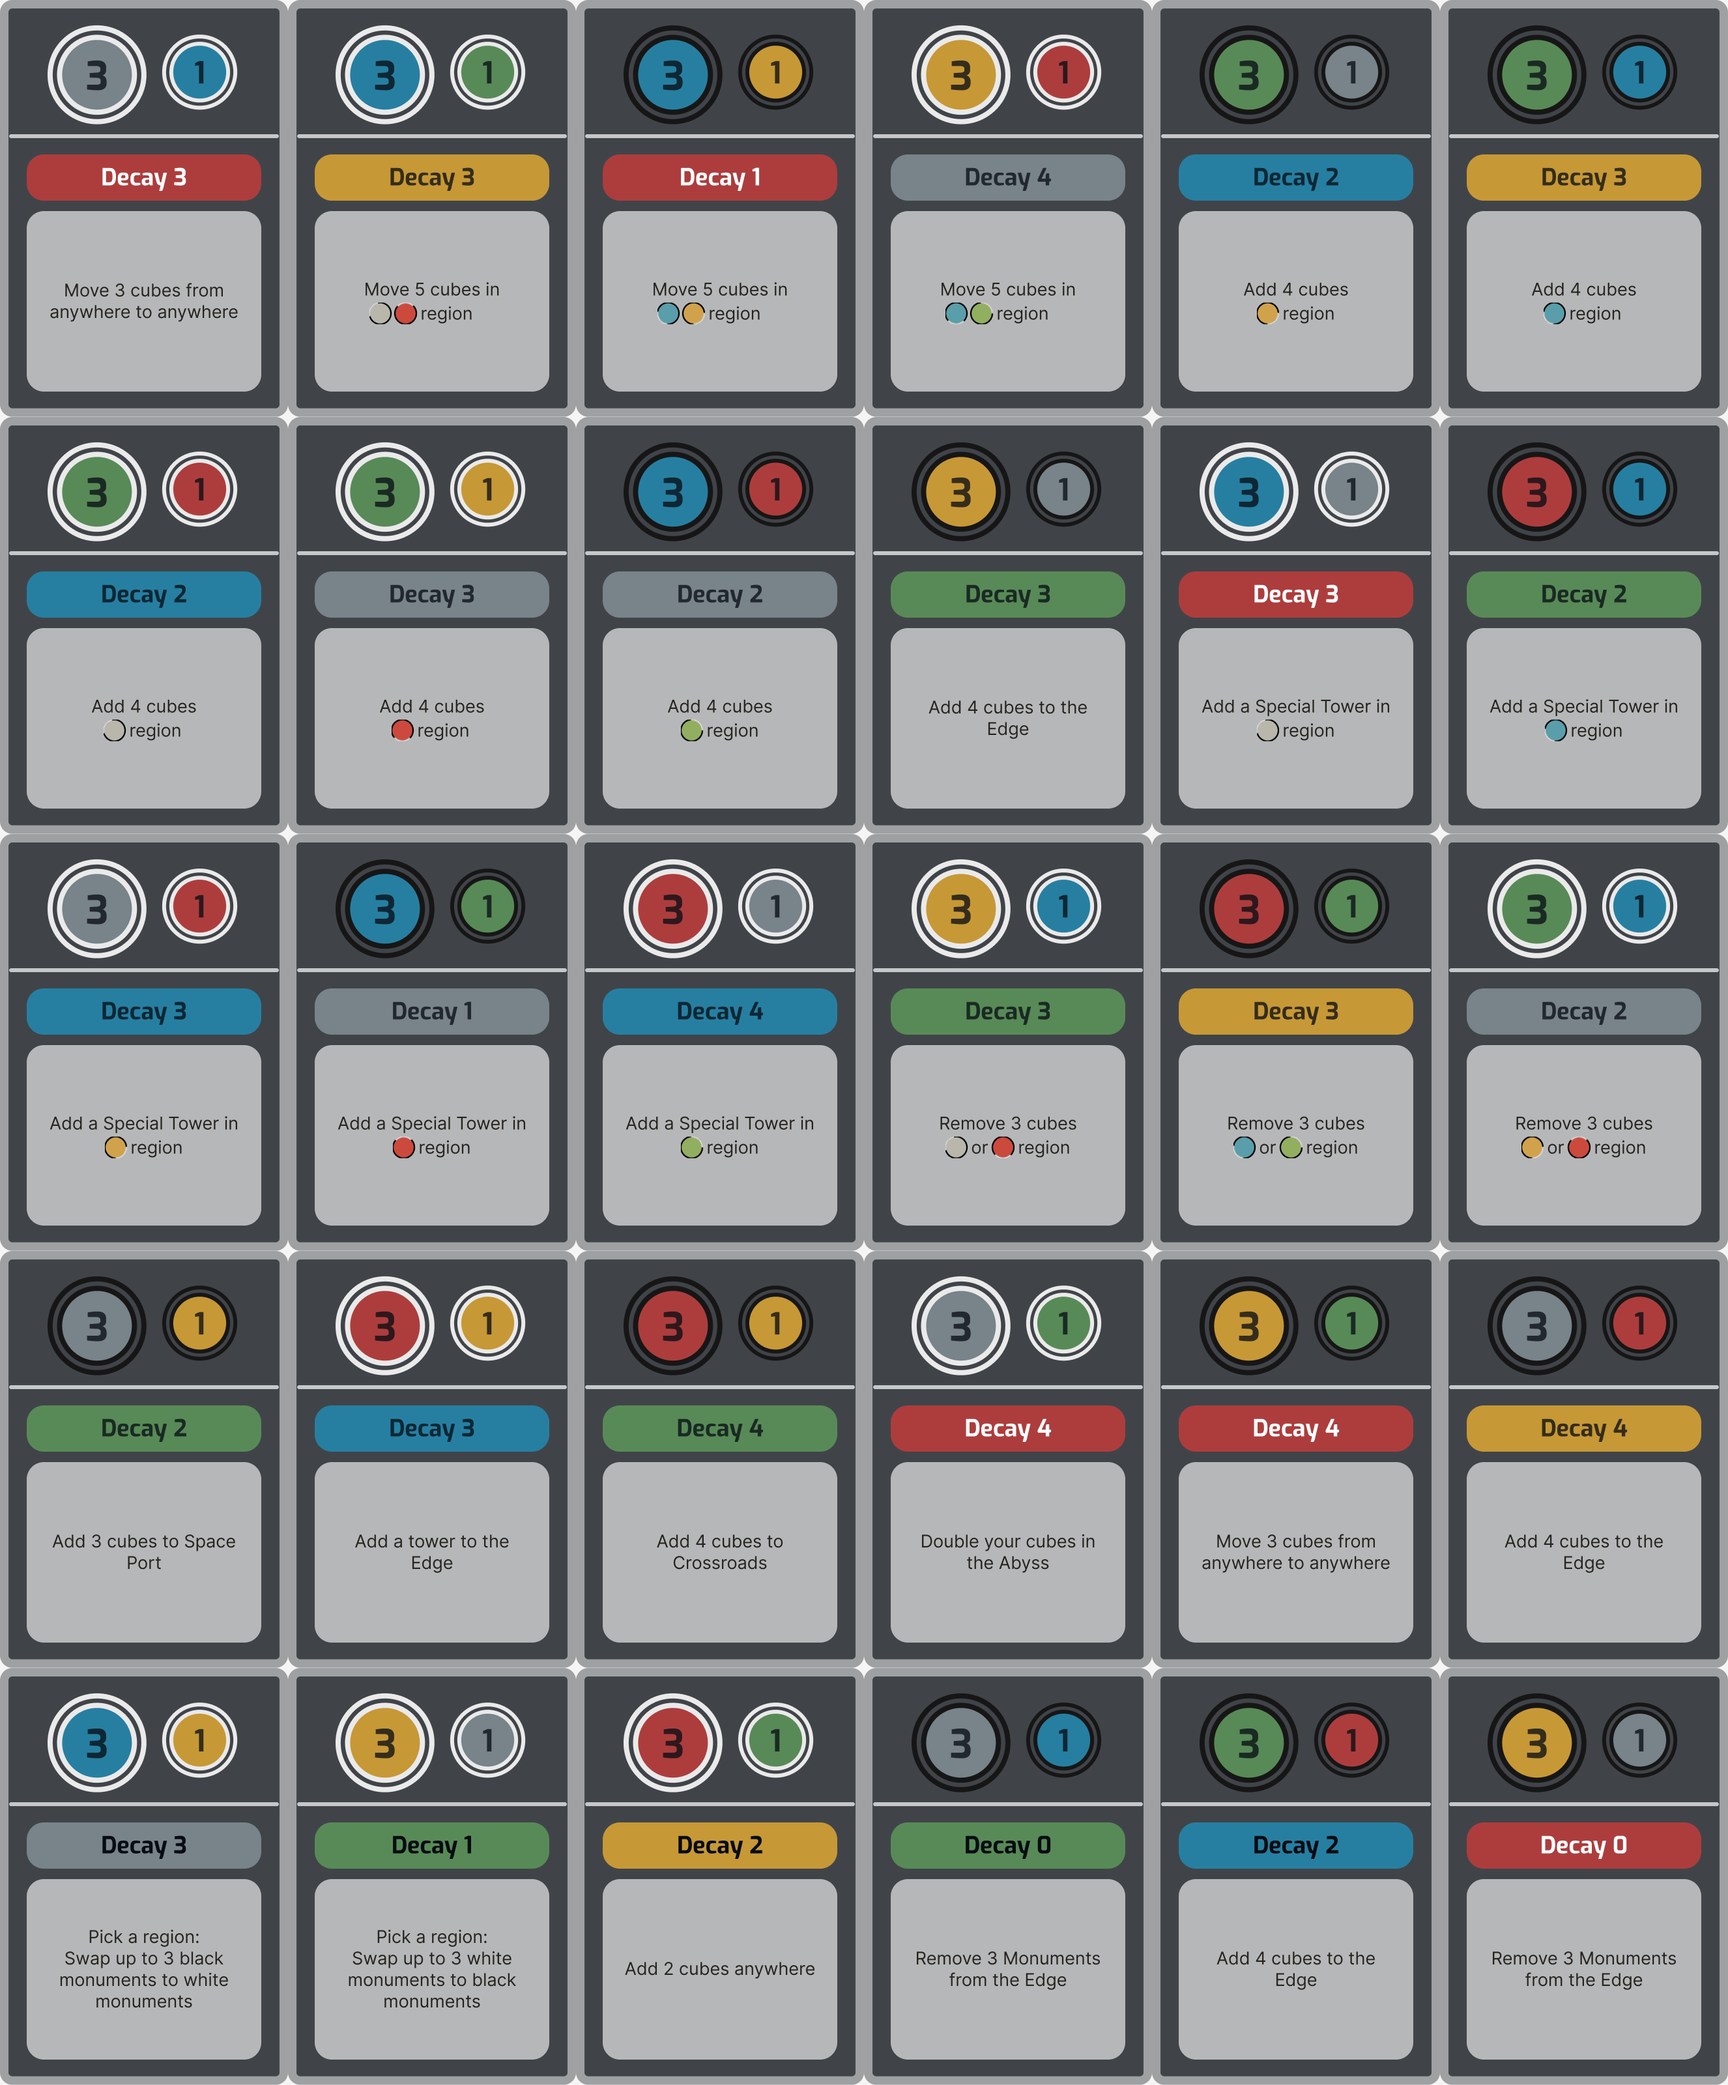
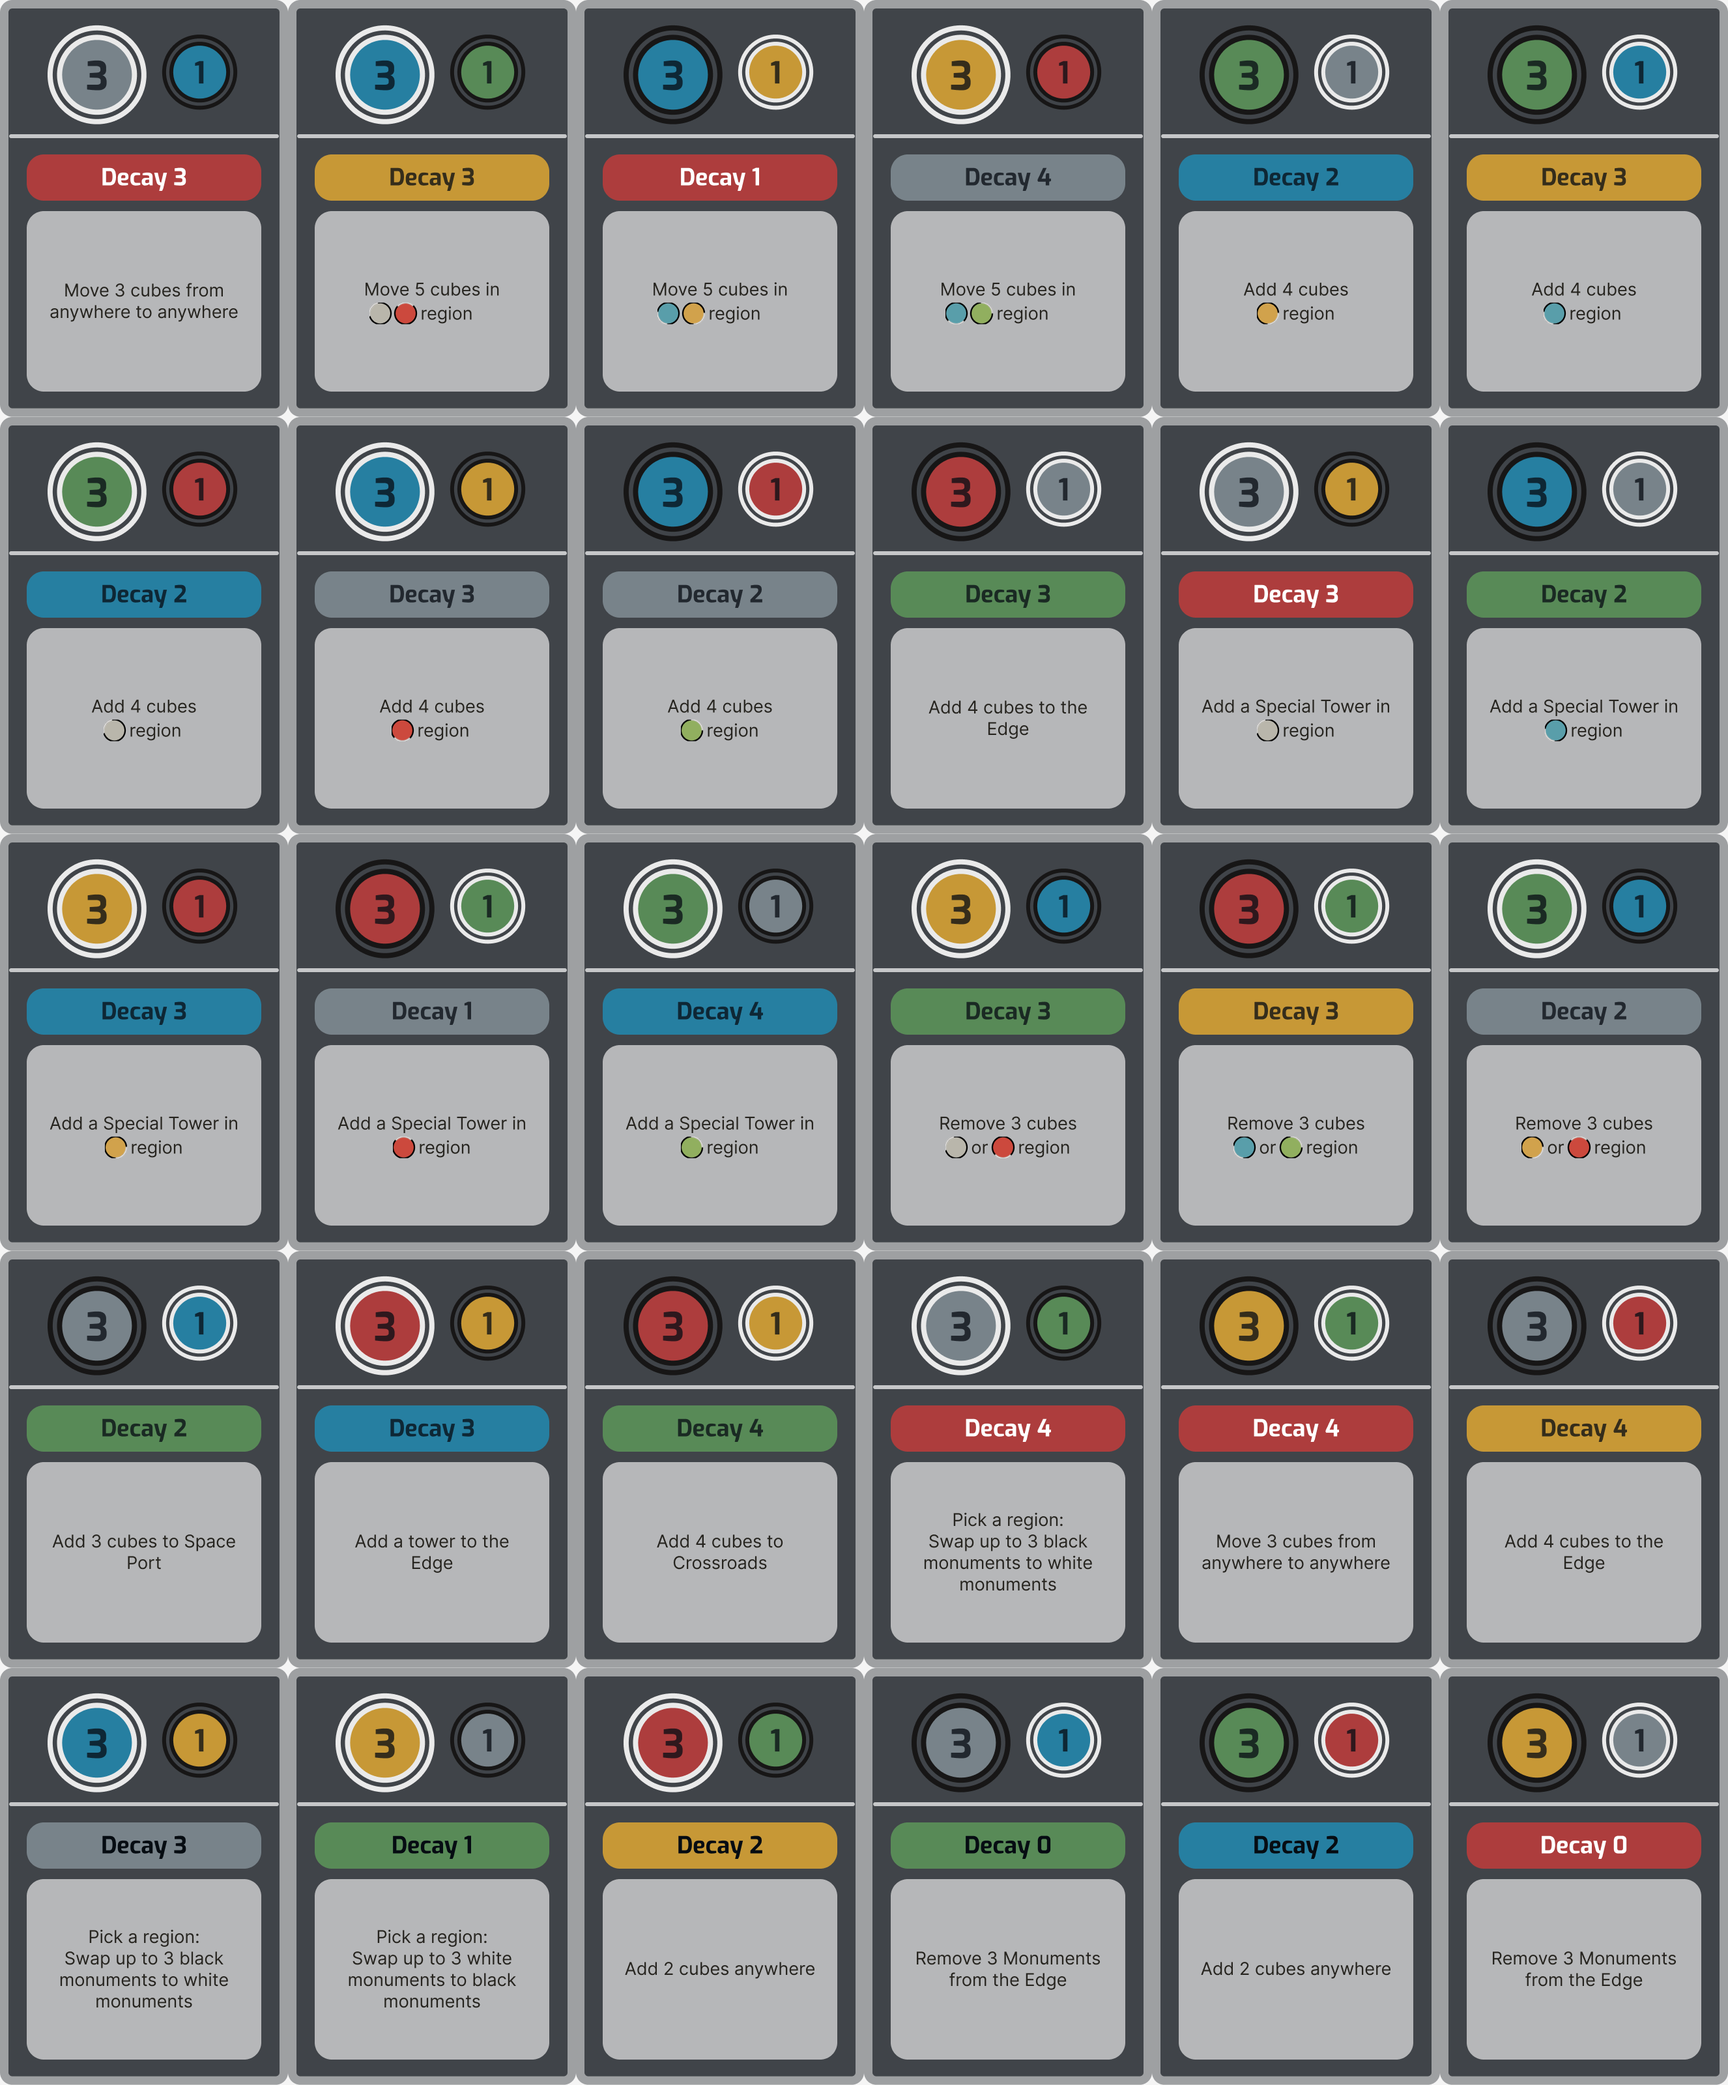
Publish updated board and card decks

diff --git a/docs/catalog.js b/docs/catalog.js
@@ -1,1 +1,1 @@
-window.FRONTIER_CATALOG = {"source": "Figma Page 5 Game components slice 400:5081", "boards": [{"title": "Main board", "figmaId": "400:5197", "path": "assets/boards/board-main-e46ceed54f.png", "width": 4096, "height": 2960, "revision": "788f060683"}], "cards": [{"title": "Action Guide", "figmaId": "400:3386", "path": "assets/cards/card-action-guide-6323e6fee4.png", "width": 506, "height": 729, "revision": "32b6b7b4d4"}, {"title": "Region Bonus Guide", "figmaId": "400:3436", "path": "assets/cards/card-region-bonus-guide-800eb32bd9.png", "width": 759, "height": 1098, "revision": "9f711bb71c"}], "references": [], "decks": [{"title": "Monuments", "figmaId": "400:4331", "count": 30, "columns": 6, "rows": 5, "cardWidth": 442, "cardHeight": 640, "face": {"path": "assets/decks/monuments-faces-d44fdccb0e.png", "width": 2652, "height": 3200, "revision": "e7878f313d"}, "back": {"path": "assets/decks/monuments-back-a65fba90e2.png", "width": 442, "height": 640, "revision": "abfd3f1891"}}, {"title": "Objectives", "figmaId": "400:3464", "count": 18, "columns": 6, "rows": 3, "cardWidth": 388, "cardHeight": 519, "face": {"path": "assets/decks/objectives-faces-4d91a50427.png", "width": 2328, "height": 1557, "revision": "96b64c3031"}, "back": {"path": "assets/decks/objectives-back-c08c78cc67.png", "width": 388, "height": 519, "revision": "cc7db17312"}}, {"title": "Specials", "figmaId": "400:4909", "count": 18, "columns": 6, "rows": 3, "cardWidth": 443, "cardHeight": 704, "face": {"path": "assets/decks/specials-faces-adc1172863.png", "width": 2658, "height": 2112, "revision": "312f1a4738"}, "back": {"path": "assets/decks/specials-back-0b946676e3.png", "width": 443, "height": 704, "revision": "a348395311"}}], "tokens": [{"title": "Build 4", "figmaId": "400:3302", "path": "assets/tokens/action-tile-1-fb100c9aa5.png", "width": 426, "height": 426, "revision": "989ae47648"}, {"title": "Region Bonus", "figmaId": "400:3383", "path": "assets/tokens/action-tile-2-7107aa55c8.png", "width": 426, "height": 426, "revision": "649b646ee8"}, {"title": "Build 3 — Blue", "figmaId": "400:3254", "path": "assets/tokens/action-tile-3.png", "width": 427, "height": 427, "revision": "c6c06dbd7d"}, {"title": "Action Upgrade +1", "figmaId": "400:3374", "path": "assets/tokens/action-tile-5-39a0ec00fc.png", "width": 426, "height": 426, "revision": "35563c5885"}, {"title": "Action Upgrade +2", "figmaId": "400:3377", "path": "assets/tokens/action-tile-6-813e8438d5.png", "width": 426, "height": 426, "revision": "d2a8f29a2f"}, {"title": "Build 3", "figmaId": "400:3232", "path": "assets/tokens/action-tile-7-7d3d7a7703.png", "width": 426, "height": 426, "revision": "d137d4bdfe"}, {"title": "Action Upgrade +3", "figmaId": "400:3380", "path": "assets/tokens/action-tile-8.png", "width": 426, "height": 426, "revision": "e5071bf25c"}, {"title": "Move — Blue Yellow Gray", "figmaId": "400:3276", "path": "assets/tokens/action-tile-9.png", "width": 427, "height": 427, "revision": "3d2c6d9614"}, {"title": "Build 3 — Gray", "figmaId": "526:147", "path": "assets/tokens/action-tile-11.png", "width": 427, "height": 427, "revision": "2529bdb0a3"}, {"title": "Build 3 — Red", "figmaId": "526:169", "path": "assets/tokens/action-tile-12.png", "width": 427, "height": 427, "revision": "311d42f308"}, {"title": "Move — Blue Yellow", "figmaId": "526:191", "path": "assets/tokens/action-tile-13.png", "width": 427, "height": 427, "revision": "1b44f97706"}, {"title": "Move — Yellow Red", "figmaId": "526:217", "path": "assets/tokens/action-tile-14.png", "width": 427, "height": 427, "revision": "d6157b7006"}]};
+window.FRONTIER_CATALOG = {"source": "Figma Page 5 Game components slice 400:5081", "boards": [{"title": "Main board", "figmaId": "400:5197", "path": "assets/boards/board-main-e46ceed54f.png", "width": 4096, "height": 2960, "revision": "45021ff334"}], "cards": [{"title": "Action Guide", "figmaId": "400:3386", "path": "assets/cards/card-action-guide-6323e6fee4.png", "width": 506, "height": 729, "revision": "32b6b7b4d4"}, {"title": "Region Bonus Guide", "figmaId": "400:3436", "path": "assets/cards/card-region-bonus-guide-800eb32bd9.png", "width": 759, "height": 1098, "revision": "9f711bb71c"}], "references": [], "decks": [{"title": "Monuments", "figmaId": "400:4331", "count": 30, "columns": 6, "rows": 5, "cardWidth": 442, "cardHeight": 640, "face": {"path": "assets/decks/monuments-faces-d44fdccb0e.png", "width": 2652, "height": 3200, "revision": "190d2ee0f9"}, "back": {"path": "assets/decks/monuments-back-a65fba90e2.png", "width": 442, "height": 640, "revision": "abfd3f1891"}}, {"title": "Objectives", "figmaId": "400:3464", "count": 18, "columns": 6, "rows": 3, "cardWidth": 388, "cardHeight": 519, "face": {"path": "assets/decks/objectives-faces-4d91a50427.png", "width": 2328, "height": 1557, "revision": "32e56861a8"}, "back": {"path": "assets/decks/objectives-back-c08c78cc67.png", "width": 388, "height": 519, "revision": "cc7db17312"}}, {"title": "Specials", "figmaId": "400:4909", "count": 19, "columns": 5, "rows": 4, "cardWidth": 443, "cardHeight": 704, "face": {"path": "assets/decks/specials-faces-adc1172863.png", "width": 2215, "height": 2816, "revision": "25ad4c82e8"}, "back": {"path": "assets/decks/specials-back-0b946676e3.png", "width": 443, "height": 704, "revision": "a348395311"}}], "tokens": [{"title": "Build 4", "figmaId": "400:3302", "path": "assets/tokens/action-tile-1-fb100c9aa5.png", "width": 426, "height": 426, "revision": "989ae47648"}, {"title": "Region Bonus", "figmaId": "400:3383", "path": "assets/tokens/action-tile-2-7107aa55c8.png", "width": 426, "height": 426, "revision": "649b646ee8"}, {"title": "Build 3 — Blue", "figmaId": "400:3254", "path": "assets/tokens/action-tile-3.png", "width": 427, "height": 427, "revision": "c6c06dbd7d"}, {"title": "Action Upgrade +1", "figmaId": "400:3374", "path": "assets/tokens/action-tile-5-39a0ec00fc.png", "width": 426, "height": 426, "revision": "35563c5885"}, {"title": "Action Upgrade +2", "figmaId": "400:3377", "path": "assets/tokens/action-tile-6-813e8438d5.png", "width": 426, "height": 426, "revision": "d2a8f29a2f"}, {"title": "Build 3", "figmaId": "400:3232", "path": "assets/tokens/action-tile-7-7d3d7a7703.png", "width": 426, "height": 426, "revision": "d137d4bdfe"}, {"title": "Action Upgrade +3", "figmaId": "400:3380", "path": "assets/tokens/action-tile-8.png", "width": 426, "height": 426, "revision": "e5071bf25c"}, {"title": "Move — Blue Yellow Gray", "figmaId": "400:3276", "path": "assets/tokens/action-tile-9.png", "width": 427, "height": 427, "revision": "3d2c6d9614"}, {"title": "Build 3 — Gray", "figmaId": "526:147", "path": "assets/tokens/action-tile-11.png", "width": 427, "height": 427, "revision": "2529bdb0a3"}, {"title": "Build 3 — Red", "figmaId": "526:169", "path": "assets/tokens/action-tile-12.png", "width": 427, "height": 427, "revision": "311d42f308"}, {"title": "Move — Blue Yellow", "figmaId": "526:191", "path": "assets/tokens/action-tile-13.png", "width": 427, "height": 427, "revision": "1b44f97706"}, {"title": "Move — Yellow Red", "figmaId": "526:217", "path": "assets/tokens/action-tile-14.png", "width": 427, "height": 427, "revision": "d6157b7006"}]};

diff --git a/docs/index.html b/docs/index.html
@@ -6,7 +6,7 @@
   <meta name="theme-color" content="#12171c">
   <title>Frontier · Tabletop Simulator assets</title>
   <link rel="stylesheet" href="styles.css?v=3">
-  <script defer src="catalog.js?v=05f8ce5b13"></script>
+  <script defer src="catalog.js?v=21f1e39784"></script>
   <script defer src="app.js?v=7"></script>
 </head>
 <body>

diff --git a/scripts/build_assets.py b/scripts/build_assets.py
@@ -186,8 +186,8 @@ def main() -> None:
          (442, 640), 6, 5, "back-monument", 0),
         ("objectives", "objectives", "Objectives", "400:3464", 18, 6, (196, 140), (420, 551),
          (388, 519), 6, 3, "back-objective", 0),
-        ("specials", "specials", "Specials", "400:4909", 18, 4, (0, 0), (492, 734),
-         (443, 704), 6, 3, "back-special", 0),
+        ("specials", "specials", "Specials", "400:4909", 19, 4, (0, 0), (492, 734),
+         (443, 704), 5, 4, "back-special", 0),
     ]
     for (slug, asset_slug, title, figma_id, count, source_columns, origin, stride,
          card_size, columns, rows, back_slug, start) in deck_specs:

diff --git a/README.md b/README.md
@@ -8,9 +8,9 @@ Current export:
 | --- | ---: | ---: | ---: | --- |
 | Monuments | 30 | 6 | 5 | Monument card back |
 | Objectives | 18 | 6 | 3 | Objective card back |
-| Specials | 18 | 6 | 3 | Special Card back |
+| Specials | 19 | 5 | 4 | Special Card back |
 
-There is one main board, two standalone guide cards, and twelve action tiles. Each deck sheet has no spacing between card bounds. Set **Back is Hidden** on when importing a deck into TTS.
+There is one main board, two standalone guide cards, and twelve action tiles. Each deck sheet has no spacing between card bounds. The 19-card Special sheet has one unused slot. Set **Back is Hidden** on when importing a deck into TTS.
 
 ## Refreshing the exports
 
